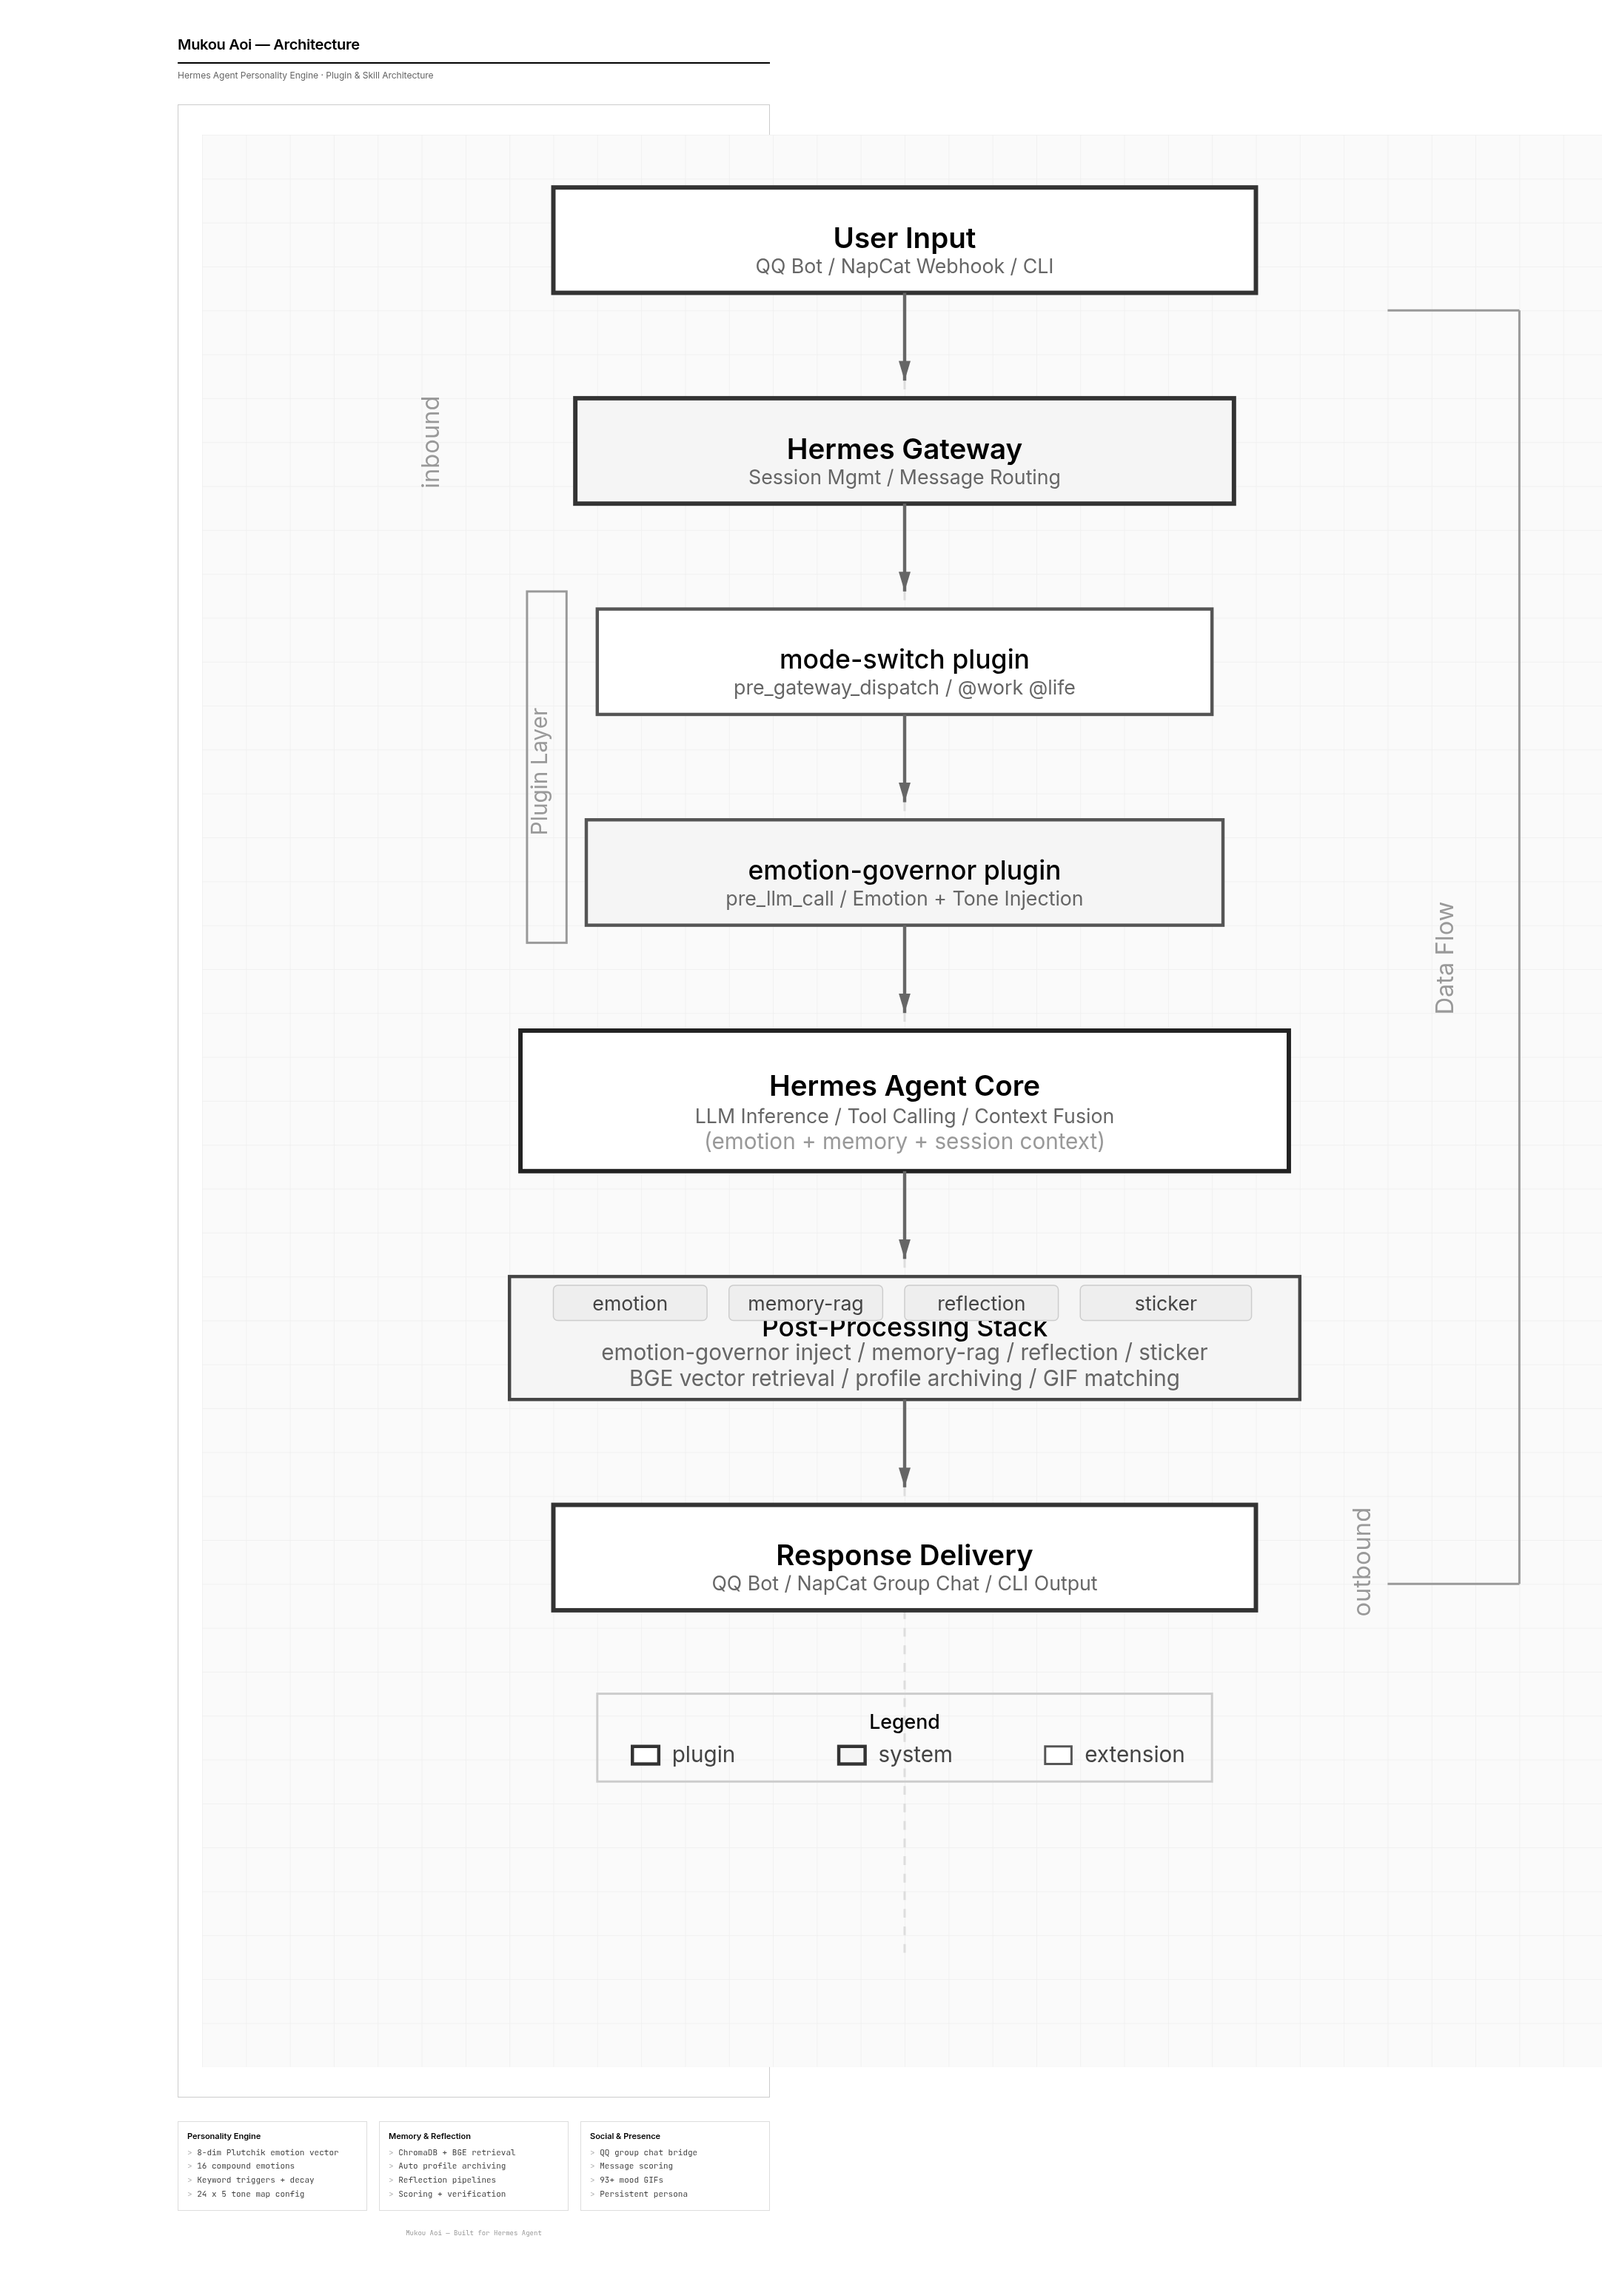
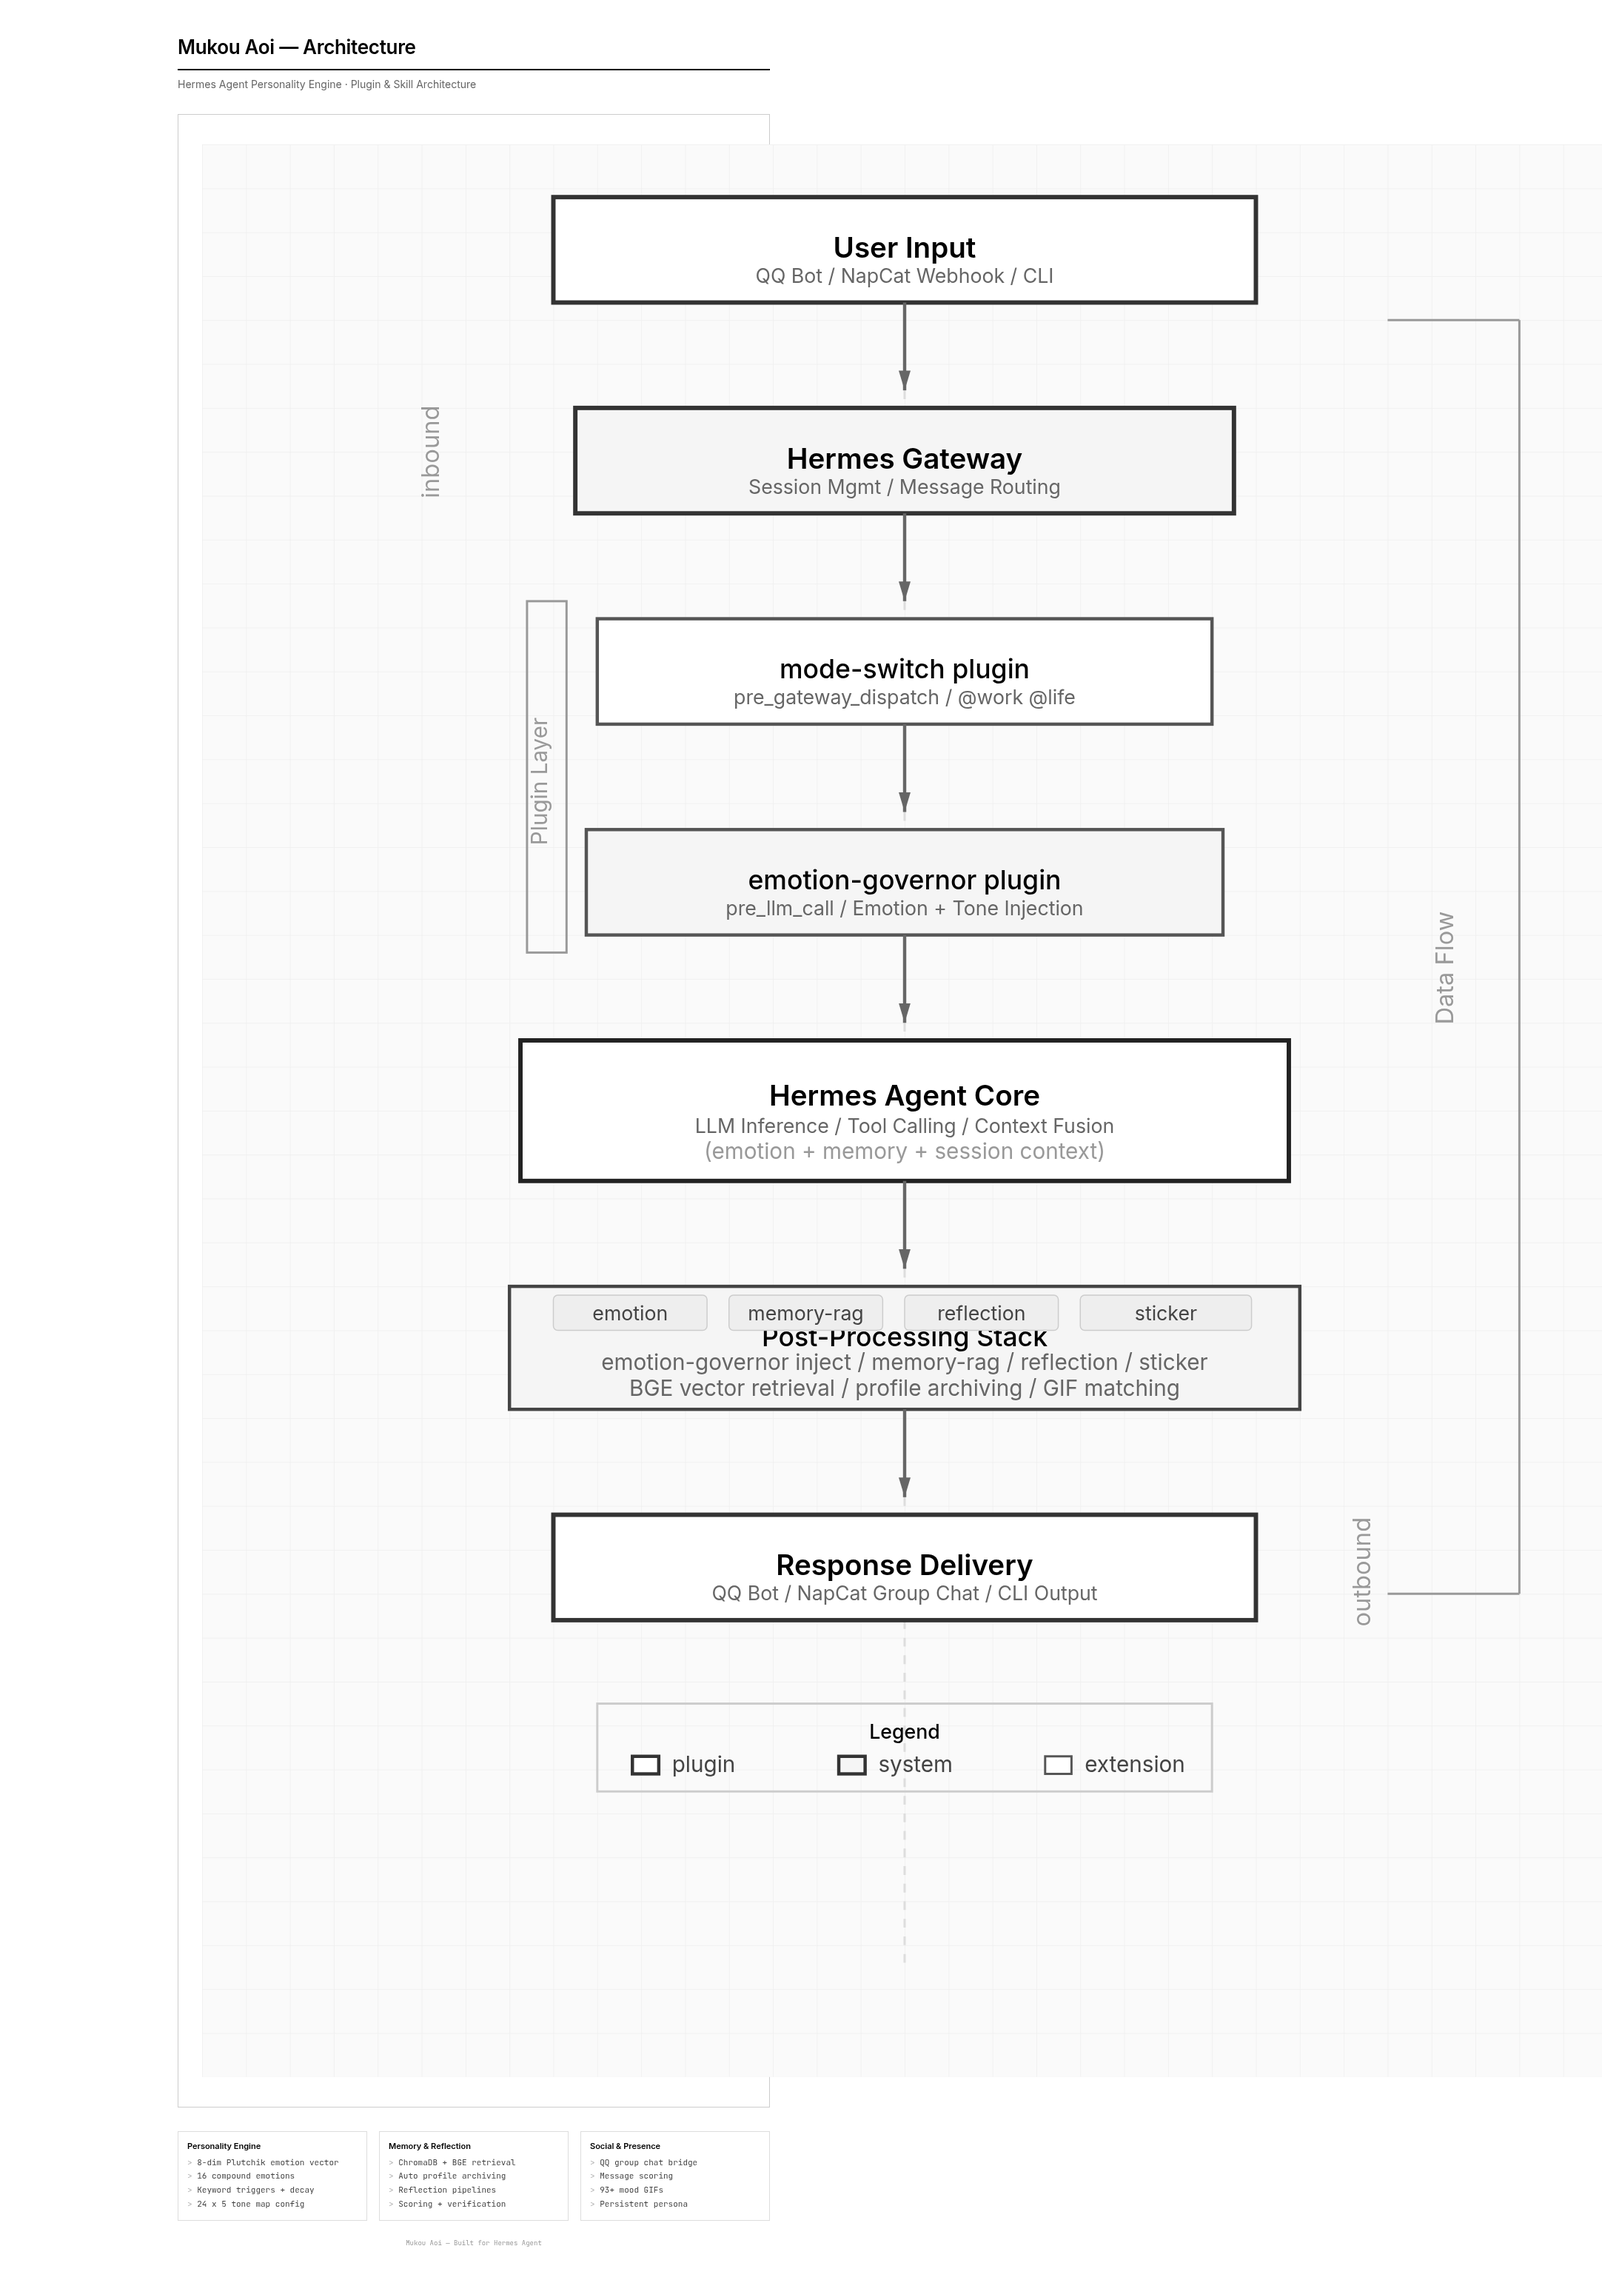
fix: bump headings to 26px, expand Summary box to 90px with padding, extend trunk/viewBox to match

diff --git a/assets/structure-bw.html b/assets/structure-bw.html
@@ -13,14 +13,14 @@
   }
   .page { max-width: 700px; margin: 0 auto; }
   h1 {
-    font-size: 20px; font-weight: 600; color: #000;
+    font-size: 26px; font-weight: 600; color: #000;
     letter-spacing: -0.3px;
     border-bottom: 2px solid #000;
-    padding-bottom: 12px;
-    margin-bottom: 8px;
+    padding-bottom: 14px;
+    margin-bottom: 10px;
   }
   .subtitle {
-    font-size: 12px; color: #666;
+    font-size: 14px; color: #666;
     margin-bottom: 32px;
   }
   .diagram-box {
@@ -43,9 +43,9 @@
   <div class="subtitle">24 files across 6 categories</div>
 
   <div class="diagram-box">
-    <svg viewBox="0 0 650 810" xmlns="http://www.w3.org/2000/svg" font-family="'JetBrains Mono', monospace">
-      <rect width="650" height="810" fill="#fafafa"/>
-      <rect width="650" height="810" fill="url(#grid)" stroke="none"/>
+    <svg viewBox="0 0 650 840" xmlns="http://www.w3.org/2000/svg" font-family="'JetBrains Mono', monospace">
+      <rect width="650" height="840" fill="#fafafa"/>
+      <rect width="650" height="840" fill="url(#grid)" stroke="none"/>
       <defs>
         <pattern id="grid" width="40" height="40" patternUnits="userSpaceOnUse">
           <path d="M 40 0 L 0 0 0 40" fill="none" stroke="#f0f0f0" stroke-width="0.5"/>
@@ -58,7 +58,7 @@
       <text x="155" y="32" font-size="8" fill="#999" dominant-baseline="middle">(root)</text>
 
       <!-- Vertical trunk -->
-      <line x1="85" y1="40" x2="85" y2="790" stroke="#ccc" stroke-width="1.5"/>
+      <line x1="85" y1="40" x2="85" y2="820" stroke="#ccc" stroke-width="1.5"/>
 
       <!-- Branch 1: Config files -->
       <line x1="85" y1="58" x2="120" y2="58" stroke="#ccc" stroke-width="1"/>
@@ -155,15 +155,15 @@
       <text x="148" y="645" font-size="8" fill="#555" dominant-baseline="middle">test_tone_map.py</text>
 
       <!-- Summary box -->
-      <rect x="120" y="682" width="460" height="68" rx="0" fill="none" stroke="#aaa" stroke-width="1" stroke-dasharray="4,3"/>
-      <text x="280" y="700" font-size="9" font-weight="500" fill="#555" text-anchor="middle">Summary</text>
-      <text x="280" y="720" font-size="8" fill="#888" text-anchor="middle">Plugins×2 | Docs×6 | Tests×4 | Emotions×24 | 1-click install</text>
+      <rect x="120" y="682" width="460" height="90" rx="0" fill="none" stroke="#aaa" stroke-width="1" stroke-dasharray="4,3"/>
+      <text x="280" y="708" font-size="10" font-weight="500" fill="#555" text-anchor="middle">Summary</text>
+      <text x="280" y="730" font-size="9" fill="#888" text-anchor="middle">Plugins×2 | Docs×6 | Tests×4 | Emotions×24 | 1-click install</text>
 
       <!-- Legend -->
-      <rect x="120" y="772" width="12" height="10" rx="0" fill="#fff" stroke="#555" stroke-width="1.5"/>
-      <text x="138" y="780" font-size="8" fill="#888" dominant-baseline="middle">directory</text>
-      <rect x="220" y="772" width="12" height="10" rx="0" fill="#f5f5f5" stroke="#ccc" stroke-width="1"/>
-      <text x="238" y="780" font-size="8" fill="#888" dominant-baseline="middle">file</text>
+      <rect x="120" y="796" width="12" height="10" rx="0" fill="#fff" stroke="#555" stroke-width="1.5"/>
+      <text x="138" y="804" font-size="9" fill="#888" dominant-baseline="middle">directory</text>
+      <rect x="220" y="796" width="12" height="10" rx="0" fill="#f5f5f5" stroke="#ccc" stroke-width="1"/>
+      <text x="238" y="804" font-size="9" fill="#888" dominant-baseline="middle">file</text>
     </svg>
   </div>
 

diff --git a/assets/architecture-bw.html b/assets/architecture-bw.html
@@ -15,14 +15,14 @@
     max-width: 800px; margin: 0 auto;
   }
   h1 {
-    font-size: 20px; font-weight: 600; color: #000;
+    font-size: 26px; font-weight: 600; color: #000;
     letter-spacing: -0.3px;
     border-bottom: 2px solid #000;
-    padding-bottom: 12px;
-    margin-bottom: 8px;
+    padding-bottom: 14px;
+    margin-bottom: 10px;
   }
   .subtitle {
-    font-size: 12px; color: #666;
+    font-size: 14px; color: #666;
     margin-bottom: 32px;
     font-weight: 400;
   }
